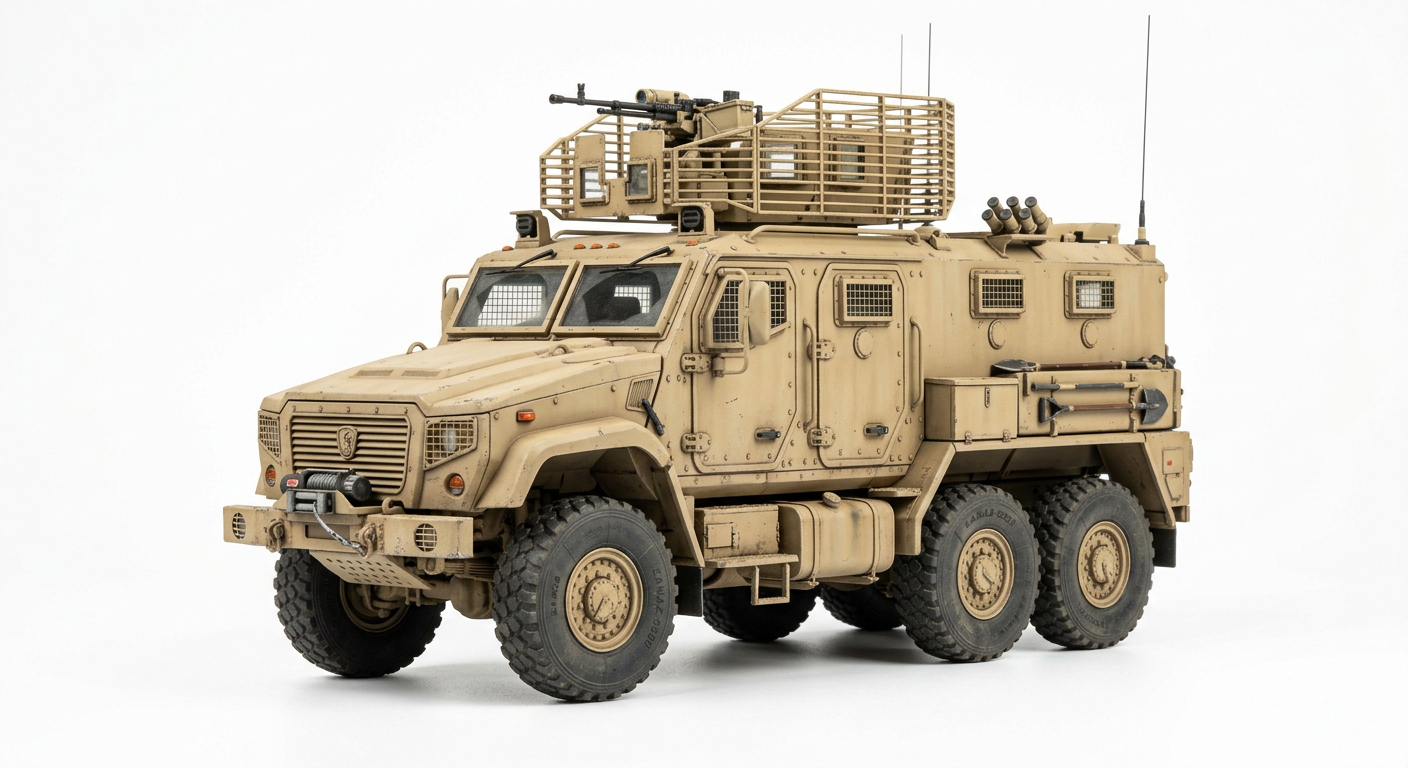
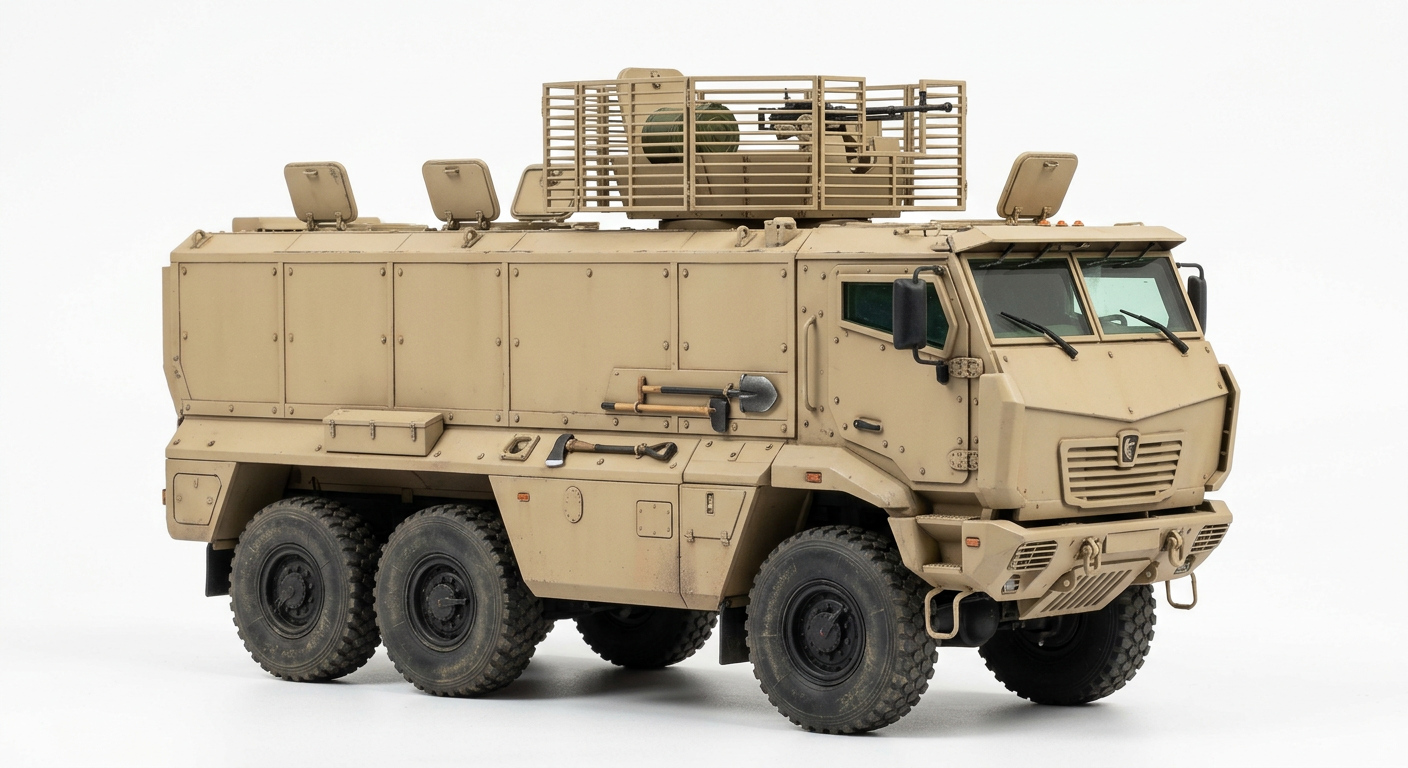
image QA pass: regenerate 10 vehicles with feature-level prompts; rebuild master

diff --git a/README.md b/README.md
@@ -51,3 +51,12 @@ output/thumbnail.jpg                      1280x720
 - Tone is analytical, not celebratory: capability plus recorded battlefield behaviour.
 - Vehicle names use the designation the force uses (2S34 Khosta rather than the
   source plan's "2S34 Koalitsiya", which conflates it with the 2S35).
+
+## Image QA
+
+Every render is reviewed against reference silhouettes before the film is built. Pass 1
+(52 vehicles) flagged ten vehicles with wrong or incomplete features — barrels truncated,
+wrong hull family, generic airbrushed bodies. Those were regenerated with feature-level
+prompts (turret shape, launcher type, hull lineage, wheel count) and re-reviewed.
+Known-acceptable approximations: the Astais body reads more generic than the real
+Remdiesel car, and the T-90's Shtora dazzler housings are understated.
